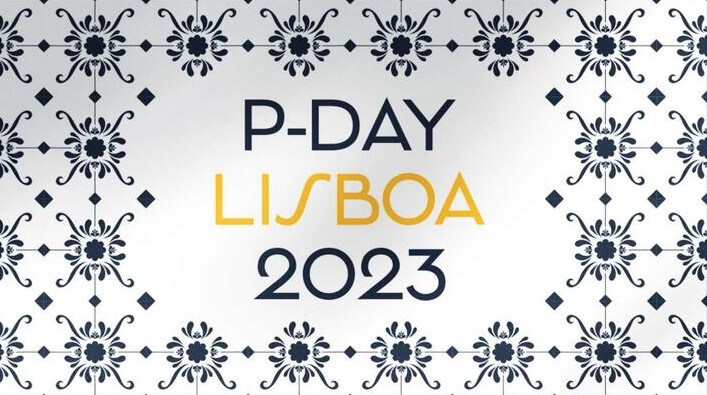
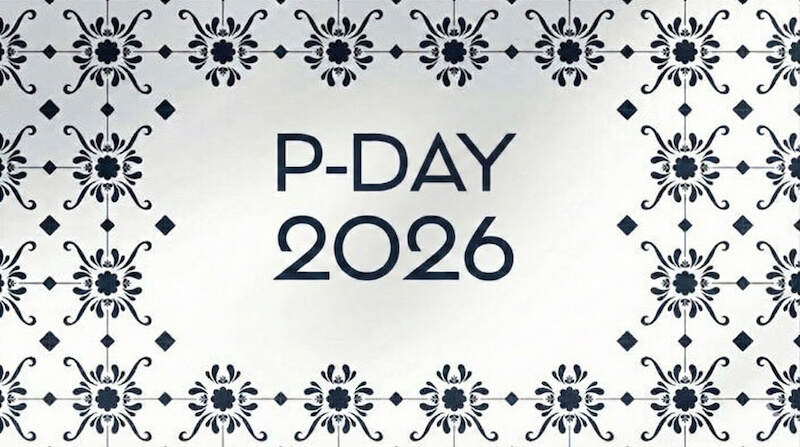
20260116 events

diff --git a/events.html b/events.html
@@ -2,11 +2,11 @@
 <html lang="en" dir="ltr">
 <head>
 	<meta charset="utf-8">
-	<title>Watch Events, Meetups, Fairs and Trade Shows 2025 | Strap Hunter</title>
+	<title>Watch Events, Meetups, Fairs and Trade Shows 2026 | Strap Hunter</title>
 	<link rel="stylesheet" href="css/edit.css">
 	<meta name="viewport" content="width=device-width, initial-scale=1">
 	<link rel="preconnect" href="https://fonts.googleapis.com"><link rel="preconnect" href="https://fonts.gstatic.com" crossorigin><link href="https://fonts.googleapis.com/css2?family=Inter:wght@400;700&display=swap" rel="stylesheet">
-	<meta property="og:title" content="Watch Events, Meetups, Fairs and Trade Shows 2025" />
+	<meta property="og:title" content="Watch Events, Meetups, Fairs and Trade Shows 2026" />
 	<meta property="og:url" content="https://www.straphunter.com/events" />
 	<meta property="og:type" content="website" />
 	
@@ -131,11 +131,11 @@
 			</nav>
 		</div>
 		<div class="all">
-		<h1>Watch Events &amp; Trade Shows 2025</h1>
+		<h1>Watch Events &amp; Trade Shows 2026</h1>
 			
 		<p class="lead">In this post, we will take a look at some of the most exciting events happening in the watch world, so you can stay up-to-date and make the most of your time in the community.</p>
 						
-		<p class="f14 avatar"><img src="images/avatar.jpg" alt="nenad pantelic profile photo" /> <a href="nenad" class="bio-link">Nenad Pantelic</a> &bull; January 19 , 2025</p>
+		<p class="f14 avatar"><img src="images/avatar.jpg" alt="nenad pantelic profile photo" /> <a href="nenad" class="bio-link">Nenad Pantelic</a> &bull; January 16, 2026</p>
 	
 			
 			<figure style="margin: 3rem 0;">
@@ -152,7 +152,7 @@
 			
 			<h2>LVMH Watch Week</h2>
 			
-			<p class="f14"><strong>Date</strong>: 21-22 January 2025<br>
+			<p class="f14"><strong>Date</strong>: 19-21 January 2026<br>
 			<strong>Website</strong>: <a target="_blank" rel="noopener nofollow" class="company-link" href="https://www.lvmh.com//">www.lvmh.com</a></p>
 			
 			<figure>
@@ -171,9 +171,9 @@
 
 				<h2>British Watchmakers’ Day</h2>
 			
-			<p class="f14"><strong>Date</strong>: 8 March 2025<br>
+			<p class="f14"><strong>Date</strong>: 7 March 2026<br>
 
-			<strong>Website</strong>: <a target="_blank" rel="noopener nofollow" class="company-link" href="https://britishwatchmakers.com/british-watch-makers-day-2025/">britishwatchmakers.com</a></p>
+			<strong>Website</strong>: <a target="_blank" rel="noopener nofollow" class="company-link" href="https://britishwatchmakers.com/british-watch-makers-day-2026/">britishwatchmakers.com</a></p>
 			
 			<figure>
 			  <img src="images/bwd.jpg" class="stoposto" loading="lazy" alt="British Watchmakers’ Day" />
@@ -193,7 +193,7 @@
 			
 			<h2>Watches and Wonders</h2>
 			
-			<p class="f14"><strong>Date</strong>: 1-7 April 2025<br>
+			<p class="f14"><strong>Date</strong>: 14-20 April 2026<br>
 			<strong>Website</strong>: <a target="_blank" rel="noopener nofollow" class="company-link" href="https://www.watchesandwonders.com/en/geneva-2024/event.html">watchesandwonders.com</a></p>
 			
 			<figure>
@@ -209,7 +209,7 @@
 			
 			<h2>Time to Watches</h2>
 			
-			<p class="f14"><strong>Date</strong>:  1-7 April 2025<br>
+			<p class="f14"><strong>Date</strong>:  14-19 April 2026<br>
 			<strong>Website</strong>: <a target="_blank" rel="noopener nofollow" class="company-link" href="https://www.timetowatches.com/">timetowatches.com</a></p>
 			
 			
@@ -228,7 +228,7 @@
 
 			<h2>Vancouver Timepiece Show</h2>
 			
-			<p class="f14"><strong>Date</strong>:  25-27 April 2025<br>
+			<p class="f14"><strong>Date</strong>:  24-26 April 2026<br>
 			<strong>Website</strong>: <a target="_blank" rel="noopener nofollow" class="company-link" href="https://www.timepieceshow.com">www.timepieceshow.com</a></p>
 			
 			
@@ -250,10 +250,10 @@
 			<h2>Windup Watch Fair</h2>
 			
 			<p class="f14">
-			<strong>Dallas</strong>: 15-16 March 2025<br>
-			<strong>San Francisco</strong>: 2-4 May 2025<br>
-			<strong>Chicago</strong>: 11-13 July 2025<br>
-			<strong>New York</strong>: 17-19 October 2025</p>
+			<strong>Dallas</strong>: more details soon<br>
+			<strong>San Francisco</strong>: more details soon<br>
+			<strong>Chicago</strong>: more details soon<br>
+			<strong>New York</strong>: more details soon</p>
 		
 			<p class="f14"><strong>Website</strong>: <a target="_blank" rel="noopener nofollow" class="company-link" href="https://windupwatchfair.com/">windupwatchfair.com</a></p>
 			
@@ -271,9 +271,9 @@
 					<h2>Intersect Watch Events</h2>
 			
 			<p class="f14">
-			<strong>Charlotte</strong>: 28 Feb - 1 March 2025<br>
-			<strong>Long Beach</strong>: 18-19 July 2025<br>
-			<strong>Austing</strong>: 7-8 November 2025<br>
+			<strong>Charlotte</strong>: more details soon<br>
+			<strong>Long Beach</strong>: more details soon<br>
+			<strong>Austing</strong>: more details soon<br>
 		
 			<p class="f14"><strong>Website</strong>: <a target="_blank" rel="noopener nofollow" class="company-link" href="https://www.intersectwatchshow.com/">intersectwatchshow.com</a></p>
 			
@@ -305,7 +305,7 @@
 			
 			<h2>Geneva Watch Days</h2>
 			
-			<p class="f14"><strong>Date</strong>: 4-7 September 2025<br>
+			<p class="f14"><strong>Date</strong>: 1-5 September 2026<br>
 			<strong>Website</strong>: <a target="_blank" rel="noopener nofollow" class="company-link" href="https://www.gva-watch-days.com/">gva-watch-days.com</a></p>
 			
 			<figure>
@@ -320,7 +320,7 @@
 			
 			<h2>World Time UK - The London Watch Event</h2>
 			
-			<p class="f14"><strong>Date</strong>: more details soon<br>
+			<p class="f14"><strong>Date</strong>: 25 January 2026<br>
 			<strong>Website</strong>: <a target="_blank" rel="noopener nofollow" class="company-link" href="http://www.worldtimeuk.com/">worldtimeuk.com</a></p>
 			
 			<figure>
@@ -335,14 +335,14 @@
 
 			<h2>P-Day (Paneristi Yearly Event)</h2>
 			
-			<p class="f14"><strong>Date</strong>: more details soon<br>
+			<p class="f14"><strong>Date</strong>: 10 October 2026<br>
 			<strong>Location</strong>: soon<br>
 			<strong>Website</strong>: <a target="_blank" rel="noopener nofollow" class="company-link" href="https://535dc5c6be9a-005851.vbulletin.net/">paneristi.com</a></p>
 			
 			<figure>
 			  <img src="images/pday.jpg" class="stoposto" loading="lazy" alt="P-Day Paneristi Yearly Event" />
 			</figure>
-			<p>The Paneristi Anniversary Event (P-Day)is an annual gathering of fans of luxury watch brand Officine Panerai. It started in 2001 to celebrate the 10th anniversary of the Panerai online community and has since become a tradition. </p>
+			<p>The Paneristi Anniversary Event (P-Day) is an annual gathering of fans of luxury watch brand Officine Panerai. It started in 2001 to celebrate the 10th anniversary of the Panerai online community and has since become a tradition. </p>
 			
 			<p>Enthusiasts from around the world gather to socialize, preview new releases and limited editions, and participate in watchmaking workshops, factory tours, and dinners or parties. The location changes each year, and it is a popular event for fans to connect and celebrate their shared passion for high-end watches.</p>
 		
@@ -350,7 +350,7 @@
 			<br><hr>
 			<h2>WatchTime New York</h2>
 			
-			<p class="f14"><strong>Date</strong>: 17-19 October 2025<br>
+			<p class="f14"><strong>Date</strong>: 16-18 October 2026<br>
 			<strong>Website</strong>: <a target="_blank" rel="noopener nofollow" class="company-link" href="https://www.watchtimeevents.com/">watchtimeevents.com</a></p>
 			
 			<figure>
@@ -369,7 +369,7 @@
 
 			<h2>Micro Praha</h2>
 			
-			<p class="f14"><strong>Date</strong>: 29-30 November 2025<br>
+			<p class="f14"><strong>Date</strong>: 29-30 November 2026<br>
 			<strong>Website</strong>: <a target="_blank" rel="noopener nofollow" class="company-link" href="https://www.micropraha.com/en/">micropraha.com</a></p>
 			
 			<figure>
@@ -387,7 +387,7 @@
 			
 			<h2>Only Watch</h2>
 			
-			<p class="f14"><strong>Date</strong>: spring 2026<br>
+			<p class="f14"><strong>Date</strong>: next one is in 2027<br>
 			<strong>Website</strong>: <a target="_blank" rel="noopener nofollow" class="company-link" href="https://www.onlywatch.com/">www.onlywatch.com</a></p>
 			
 			<figure>
@@ -405,7 +405,7 @@
 			<br><hr>
 			<h2>Grand Prix d'Horlogerie de Genève (GPHG)</h2>
 			
-			<p class="f14"><strong>Date</strong>: 12 November 2025<br>
+			<p class="f14"><strong>Date</strong>: more details soon<br>
 			<strong>Website</strong>: <a target="_blank" rel="noopener nofollow" class="company-link" href="https://www.gphg.org/en">www.gphg.org</a></p>
 			
 			<figure>
@@ -421,7 +421,7 @@
 			<br><hr>
 			<h2>Dubai Watch Week</h2>
 			
-			<p class="f14"><strong>Date</strong>: 20-23 November 2025<br>
+			<p class="f14"><strong>Date</strong>: next edition is in 2027<br>
 			<strong>Website</strong>: <a target="_blank" rel="noopener nofollow" class="company-link" href="https://www.dubaiwatchweek.com/">dubaiwatchweek.com</a></p>
 			
 			<figure>

diff --git a/blog.html b/blog.html
@@ -151,6 +151,15 @@
 
 		<div class="all">
 
+
+			<div class="archive-wrapper">
+			<div class="archive-image"><a href="events"><img src="images/th-events.jpg" alt="Watch Events" loading="lazy" /></a></div>
+			<div class="archive-text">
+			<h3><a href="events">Watch Events, Meetups &amp Trade Shows 2026</a></h3>
+			<p class="f14">January 16, 2026</p>	
+			</div>
+			</div>
+
 			<div class="archive-wrapper">
 			<div class="archive-image"><a href="b065"><img src="images/th-r017.png" alt="nighthawk strap guide" loading="lazy" /></a></div>
 			<div class="archive-text">
@@ -587,15 +596,7 @@
 			<p class="f14">January 24, 2024</p>	
 			</div>
 			</div>
-			
-			
-			<div class="archive-wrapper">
-			<div class="archive-image"><a href="events"><img src="images/th-events.jpg" alt="Watch Events" loading="lazy" /></a></div>
-			<div class="archive-text">
-			<h3><a href="events">Watch Events, Meetups &amp Trade Shows 2023</a></h3>
-			<p class="f14">January 12, 2024</p>	
-			</div>
-			</div>
+		
 			
 			
 			<div class="archive-wrapper">
